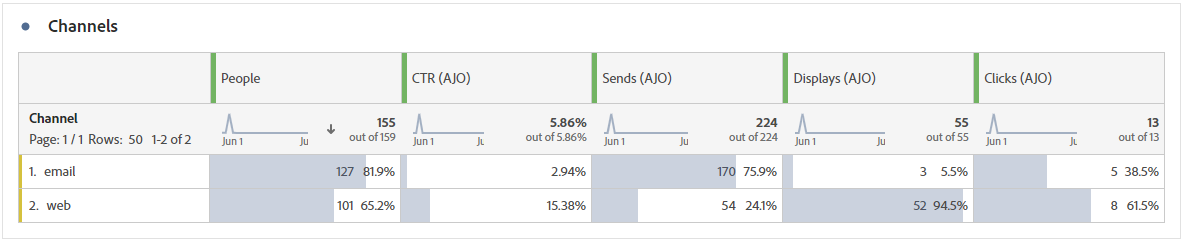
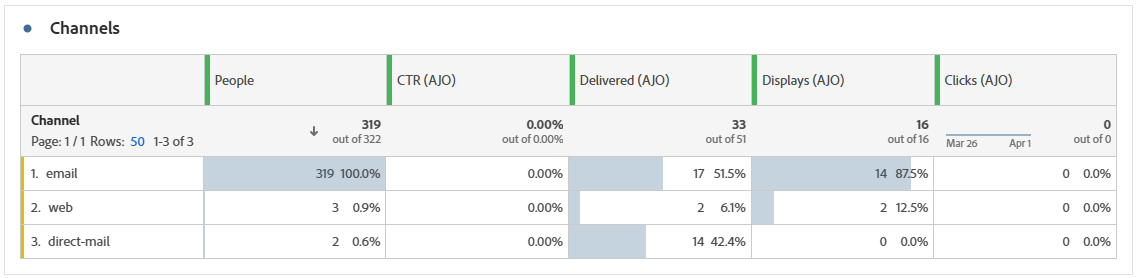
Update report guide

Changed region(s): [[0.0, 0.0, 1.0, 0.9876], [0.0, 0.0581, 0.1229, 0.1452]]

diff --git a/help/using/reports/journey-global-report-cja-inapp.md b/help/using/reports/journey-global-report-cja-inapp.md
@@ -11,19 +11,25 @@ exl-id: f10b3ab9-db0a-4759-98e4-2ac1988eb8c4
 ---
 # In-app journey report {#journey-global-report}
 
+>[!INFO]
+>
+>Your journey report may show information from multiple journeys simultaneously, as users can be involved in more than one journey at a time. As a result, inbound communications (In-App, Web and Code-based) may show up in multiple journeys if they were triggered for a user participating in simultaneous active journeys, which can result in overlapping data.
+
 >[!BEGINSHADEBOX]
 
-Your journey report may show information from multiple journeys simultaneously, as users can be involved in more than one journey at a time. As a result, inbound communications (In-App, Web and Code-based) may show up in multiple journeys if they were triggered for a user participating in simultaneous active journeys, which can result in overlapping data.
+You can access your In-app journey report by clicking the **[!UICONTROL Reports]** button within your journey. [Learn more](report-gs-cja.md)
+
+![](assets/report-access.png)
 
 >[!ENDSHADEBOX]
 
-## Impression & click trend {#impression-click-trend}
+## Display & click trend {#display-click-trend}
 
 ![](assets/cja-inapp-impressions-click.png)
 
-The **[!UICONTROL Impression & Click trend]** graph presents a detailed analysis of your profiles' engagement with your In-app messages, offering valuable insights into how profiles interact with your content.
+The **[!UICONTROL Display & Click trend]** graph presents a detailed analysis of your profiles' engagement with your In-app messages, offering valuable insights into how profiles interact with your content.
 
-+++ Learn more on Impression & Click trend metrics
++++ Learn more on Display & Click trend metrics
 
 * **[!UICONTROL Clicks]**: Number of times a content was clicked on in your In-app messages.
 

diff --git a/help/using/reports/campaign-global-report-cja-email.md b/help/using/reports/campaign-global-report-cja-email.md
@@ -11,11 +11,19 @@ exl-id: d11dd1cb-041b-48cd-b1fc-bcbe12338a07
 ---
 # Email campaign report {#campaign-global-report-cja-email}
 
+>[!INFO]
+>
+>Since Apple introduced new privacy protection features for its native Mail app, including Mail Privacy Protection, senders are no longer able to use tracking pixels to collect data on profiles who have enabled Apple's Mail Privacy Protection. Consequently, Adobe Journey Optimizer ability to track email opens using tracking pixels may be impacted. 
+> [Learn more](https://experienceleaguecommunities.adobe.com/t5/adobe-campaign-classic-blogs/the-impact-of-apple-ios-privacy-changes-on-email-marketing-and/ba-p/699780) on the impact of Apple iOS privacy changes on Email marketing.
+> 
+> We recommend focusing on clicks and conversion metrics instead of open rates for more accurate insights.
+
+
 >[!BEGINSHADEBOX]
 
-Since Apple introduced new privacy protection features for its native Mail app, including Mail Privacy Protection, senders are no longer able to use tracking pixels to collect data on profiles who have enabled Apple's Mail Privacy Protection. Consequently, Adobe Journey Optimizer ability to track email opens using tracking pixels may be impacted. [Learn more](https://experienceleaguecommunities.adobe.com/t5/adobe-campaign-classic-blogs/the-impact-of-apple-ios-privacy-changes-on-email-marketing-and/ba-p/699780) on the impact of Apple iOS privacy changes on Email marketing.
+You can access your Email campaign report by clicking the **[!UICONTROL Reports]** button from your campaign, then selecting **[!UICONTROL View all time report]**. [Learn more](report-gs-cja.md)
 
-We recommend focusing on clicks and conversion metrics instead of open rates for more accurate insights.
+![](assets/report-access.png)
 
 >[!ENDSHADEBOX]
 

diff --git a/help/using/reports/journey-global-report-cja-email.md b/help/using/reports/journey-global-report-cja-email.md
@@ -11,11 +11,18 @@ exl-id: 82558447-9d42-4fac-8fc1-fded9bf4bfcc
 ---
 # Email journey report {#journey-global-report}
 
+>[!INFO]
+>
+>Since Apple introduced new privacy protection features for its native Mail app, including Mail Privacy Protection, senders are no longer able to use tracking pixels to collect data on profiles who have enabled Apple's Mail Privacy Protection. Consequently, Adobe Journey Optimizer ability to track email opens using tracking pixels may be impacted. 
+> [Learn more](https://experienceleaguecommunities.adobe.com/t5/adobe-campaign-classic-blogs/the-impact-of-apple-ios-privacy-changes-on-email-marketing-and/ba-p/699780) on the impact of Apple iOS privacy changes on Email marketing.
+> 
+> We recommend focusing on clicks and conversion metrics instead of open rates for more accurate insights.
+
 >[!BEGINSHADEBOX]
 
-Since Apple introduced new privacy protection features for its native Mail app, including Mail Privacy Protection, senders are no longer able to use tracking pixels to collect data on profiles who have enabled Apple's Mail Privacy Protection. Consequently, Adobe Journey Optimizer ability to track email opens using tracking pixels may be impacted. [Learn more](https://experienceleaguecommunities.adobe.com/t5/adobe-campaign-classic-blogs/the-impact-of-apple-ios-privacy-changes-on-email-marketing-and/ba-p/699780) on the impact of Apple iOS privacy changes on Email marketing.
+You can access your email journey report by clicking the **[!UICONTROL View report]** button within your journey. [Learn more](report-gs-cja.md)
 
-We recommend focusing on clicks and conversion metrics instead of open rates for more accurate insights.
+![](assets/report-access-jo.png)
 
 >[!ENDSHADEBOX]
 

diff --git a/help/using/reports/channel-report-cja.md b/help/using/reports/channel-report-cja.md
@@ -81,7 +81,11 @@ By clicking on the name of any campaign listed in this table, you can easily exp
 
 * **[!UICONTROL People]**: Number of user profiles who qualify as target profiles for your messages.
 
+* **[!UICONTROL Click through rate (CTR)]**: Percentage of clicks in your messages.
+
 * **[!UICONTROL Sends]**: Total number of sends for each campaign.
+
+* **[!UICONTROL Delivered]**: Number of messages successfully sent.
 
 * **[!UICONTROL Displays]**: Number of times the message was opened.
 
@@ -101,9 +105,9 @@ The **[!UICONTROL Channels]** table provides a detailed breakdown of your profil
 
 * **[!UICONTROL People]**: Number of user profiles who qualify as target profiles for your messages.
 
-* **[!UICONTROL Click through rate]**: Percentage of clicks in your messages.
+* **[!UICONTROL Click through rate (CTR)]**: Percentage of clicks in your messages.
 
-* **[!UICONTROL Sends]**: Total number of sends for each campaign.
+* **[!UICONTROL Delivered]**: Number of messages successfully sent.
 
 * **[!UICONTROL Displays]**: Number of times the message was opened.
 

diff --git a/help/using/reports/journey-global-report-cja-code.md b/help/using/reports/journey-global-report-cja-code.md
@@ -11,9 +11,15 @@ exl-id: 33b6cc18-dd63-48d9-8d85-526500d83d37
 ---
 # Code-based journey report {#journey-global-report}
 
+>[!INFO]
+>
+> Your journey report may show information from multiple journeys simultaneously, as users can be involved in more than one journey at a time. As a result, inbound communications (In-App, Web and Code-based) may show up in multiple journeys if they were triggered for a user participating in simultaneous active journeys, which can result in overlapping data.
+
 >[!BEGINSHADEBOX]
 
-Your journey report may show information from multiple journeys simultaneously, as users can be involved in more than one journey at a time. As a result, inbound communications (In-App, Web and Code-based) may show up in multiple journeys if they were triggered for a user participating in simultaneous active journeys, which can result in overlapping data.
+You can access your Code-based journey report by clicking the **[!UICONTROL View report]** button within your journey. [Learn more](report-gs-cja.md)
+
+![](assets/report-access-jo.png)
 
 >[!ENDSHADEBOX]
 

diff --git a/help/using/reports/journey-global-report-cja-web.md b/help/using/reports/journey-global-report-cja-web.md
@@ -11,9 +11,15 @@ exl-id: 7591a07b-1680-4081-a745-192755d35371
 ---
 # Web journey report {#journey-global-report}
 
+>[!INFO]
+>
+>Your journey report may show information from multiple journeys simultaneously, as users can be involved in more than one journey at a time. As a result, inbound communications (In-App, Web and Code-based) may show up in multiple journeys if they were triggered for a user participating in simultaneous active journeys, which can result in overlapping data.
+
 >[!BEGINSHADEBOX]
 
-Your journey report may show information from multiple journeys simultaneously, as users can be involved in more than one journey at a time. As a result, inbound communications (In-App, Web and Code-based) may show up in multiple journeys if they were triggered for a user participating in simultaneous active journeys, which can result in overlapping data.
+You can access your Web journey report by clicking the **[!UICONTROL View report]** button within your journey. [Learn more](report-gs-cja.md)
+
+![](assets/report-access-jo.png)
 
 >[!ENDSHADEBOX]
 

diff --git a/help/using/reports/journey-global-report-cja-push.md b/help/using/reports/journey-global-report-cja-push.md
@@ -11,6 +11,14 @@ exl-id: 6d4b7669-7852-42f0-9347-399a3994011f
 ---
 # Push notification journey report {#journey-global-report}
 
+>[!BEGINSHADEBOX]
+
+You can access your Push notification journey report by clicking the **[!UICONTROL View report]** button within your journey. [Learn more](report-gs-cja.md)
+
+![](assets/report-access-jo.png)
+
+>[!ENDSHADEBOX]
+
 ## Sending Statistics {#sending-statistics-push}
 
 ![](assets/cja-campaign-push-sending-stat.png)
@@ -51,9 +59,7 @@ The **[!UICONTROL Tracking statistics]** table offers a detailed snapshot of pro
 
 * **[!UICONTROL Unique Clicks]**: Number of profiles who clicked on a content in your push notification.
 
-<!--
-* **[!UICONTROL Push custom actions]**: 
--->
+* **[!UICONTROL Push custom actions]**: Number of custom actions taken by profiles in response to the push notifications.
 +++
 
 ## Tracked link labels {#track-link-label-push}

diff --git a/help/using/reports/campaign-live-report.md b/help/using/reports/campaign-live-report.md
@@ -18,7 +18,7 @@ exl-id: 925494b6-e08a-4bd3-8a2f-96a5d9cbc387
 
 Live reports, accessible from the Last 24 hrs tab, display events that took place within the past 24 hours, with a minimum time interval of two minutes from the event occurrence. In comparison, Customer Journey Analytics reports focus on events that occurred at least two hours ago and cover events over a selected time period.
 
-Campaign live report can be accessed directly from your campaign with the **[!UICONTROL Live view]** button. 
+You can access the live campaign report directly from your campaign by clicking the **[!UICONTROL Reports]** button, then selecting **[!UICONTROL View last 24hrs report]**.
 
 The Campaign **[!UICONTROL Live report]** page will be displayed with the following tabs:
 

diff --git a/help/using/reports/journey-live-report.md b/help/using/reports/journey-live-report.md
@@ -18,7 +18,7 @@ exl-id: e3781f79-7c8d-4512-b44f-835639b1471f
 
 Live reports, accessible from the Last 24 hrs tab, display events that took place within the past 24 hours, with a minimum time interval of two minutes from the event occurrence. In comparison, Customer Journey Analytics reports focus on events that occurred at least two hours ago and cover events over a selected time period.
 
-Journey live report can be accessed directly from your journey with the **[!UICONTROL View report]** button. 
+Access the live Journey report from the [!UICONTROL Journeys] menu by opening your journey's [!UICONTROL More actions] menu and selecting [!UICONTROL View last 24hrs report].
 
 ![](assets/report_journey.png)
 

diff --git a/help/using/reports/journey-global-report-cja-sms.md b/help/using/reports/journey-global-report-cja-sms.md
@@ -11,6 +11,14 @@ exl-id: cf50ce33-7934-4e37-a757-08cda14e97ac
 ---
 # SMS journey report{#sms}
 
+>[!BEGINSHADEBOX]
+
+You can access your SMS journey report by clicking the **[!UICONTROL View report]** button within your journey. [Learn more](report-gs-cja.md)
+
+![](assets/report-access-jo.png)
+
+>[!ENDSHADEBOX]
+
 ## Delivered vs Click trend {#delivered-click-sms}
 
 The **[!UICONTROL Delivered vs Click trend]** graph presents a detailed analysis of your profiles' engagement with your SMS messages, offering valuable insights into how various domains interact with your content.

diff --git a/help/using/reports/campaign-global-report-cja-push.md b/help/using/reports/campaign-global-report-cja-push.md
@@ -11,6 +11,14 @@ exl-id: 43b10f54-0c19-46a1-8d51-eb6bf22e6da9
 ---
 # Push notification campaign report {#campaign-global-report-cja-push}
 
+>[!BEGINSHADEBOX]
+
+You can access your Push notification campaign report by clicking the **[!UICONTROL Reports]** button from your campaign, then selecting **[!UICONTROL View all time report]**. [Learn more](report-gs-cja.md)
+
+![](assets/report-access.png)
+
+>[!ENDSHADEBOX]
+
 ## Sending Statistics {#sending-statistics-push}
 
 ![](assets/cja-campaign-push-sending-stat.png)

diff --git a/help/using/reports/campaign-global-report-cja-direct.md b/help/using/reports/campaign-global-report-cja-direct.md
@@ -11,6 +11,14 @@ exl-id: b0771fd9-72bd-4891-a394-f08e3dde6126
 ---
 # Direct mail campaign report {#campaign-global-report-cja-direct}
 
+>[!BEGINSHADEBOX]
+
+You can access your Direct mail campaign report by clicking the **[!UICONTROL Reports]** button from your campaign, then selecting **[!UICONTROL View all time report]**. [Learn more](report-gs-cja.md)
+
+![](assets/report-access.png)
+
+>[!ENDSHADEBOX]
+
 ## Sending Statistics {#sending-statistics-directmail}
 
 ![](assets/cja-direct-sending-stat.png)
